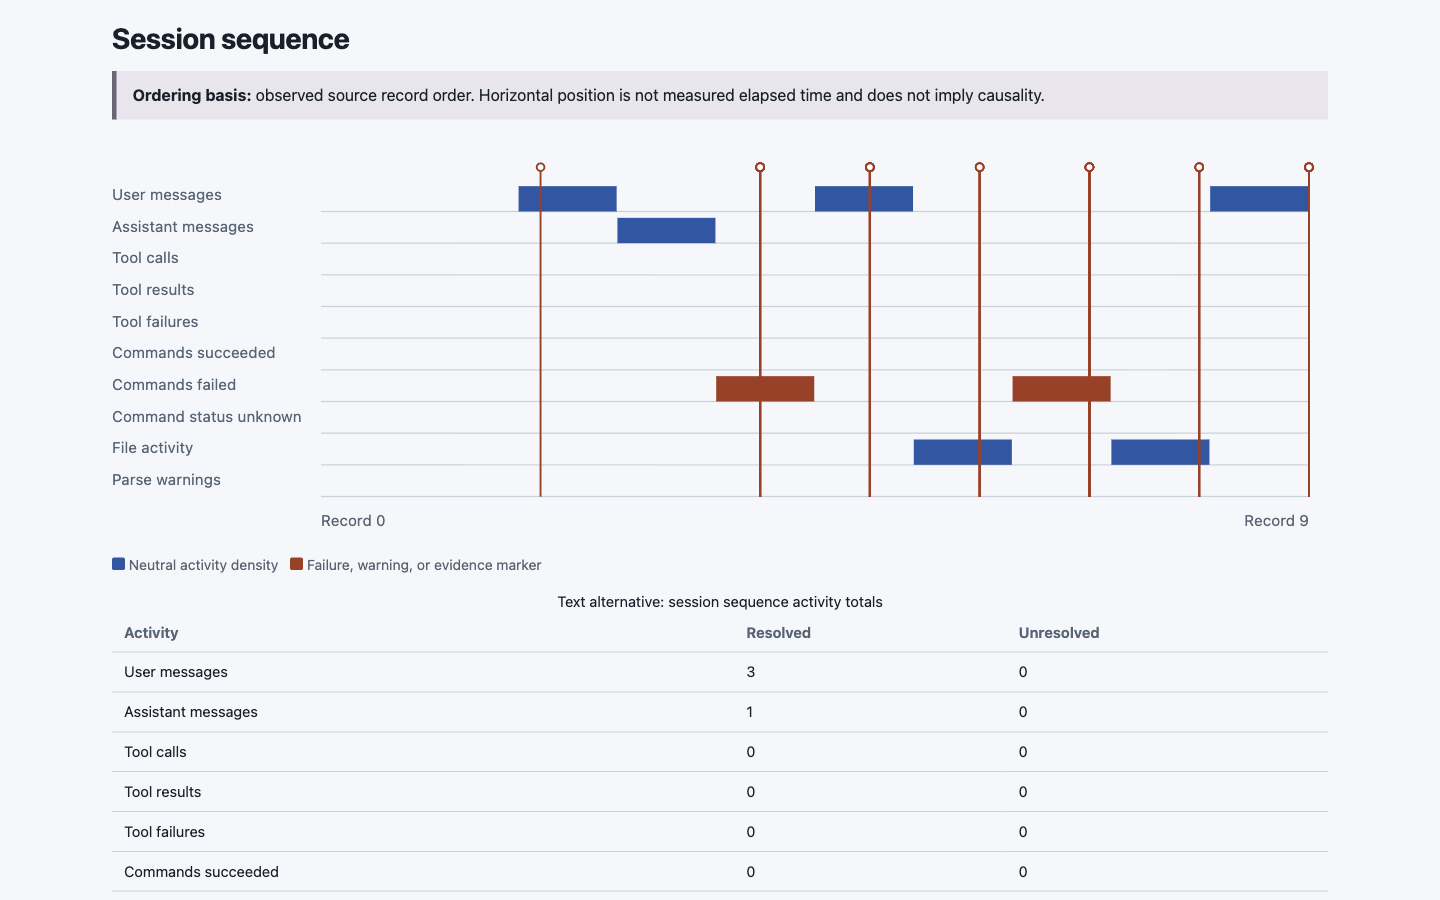
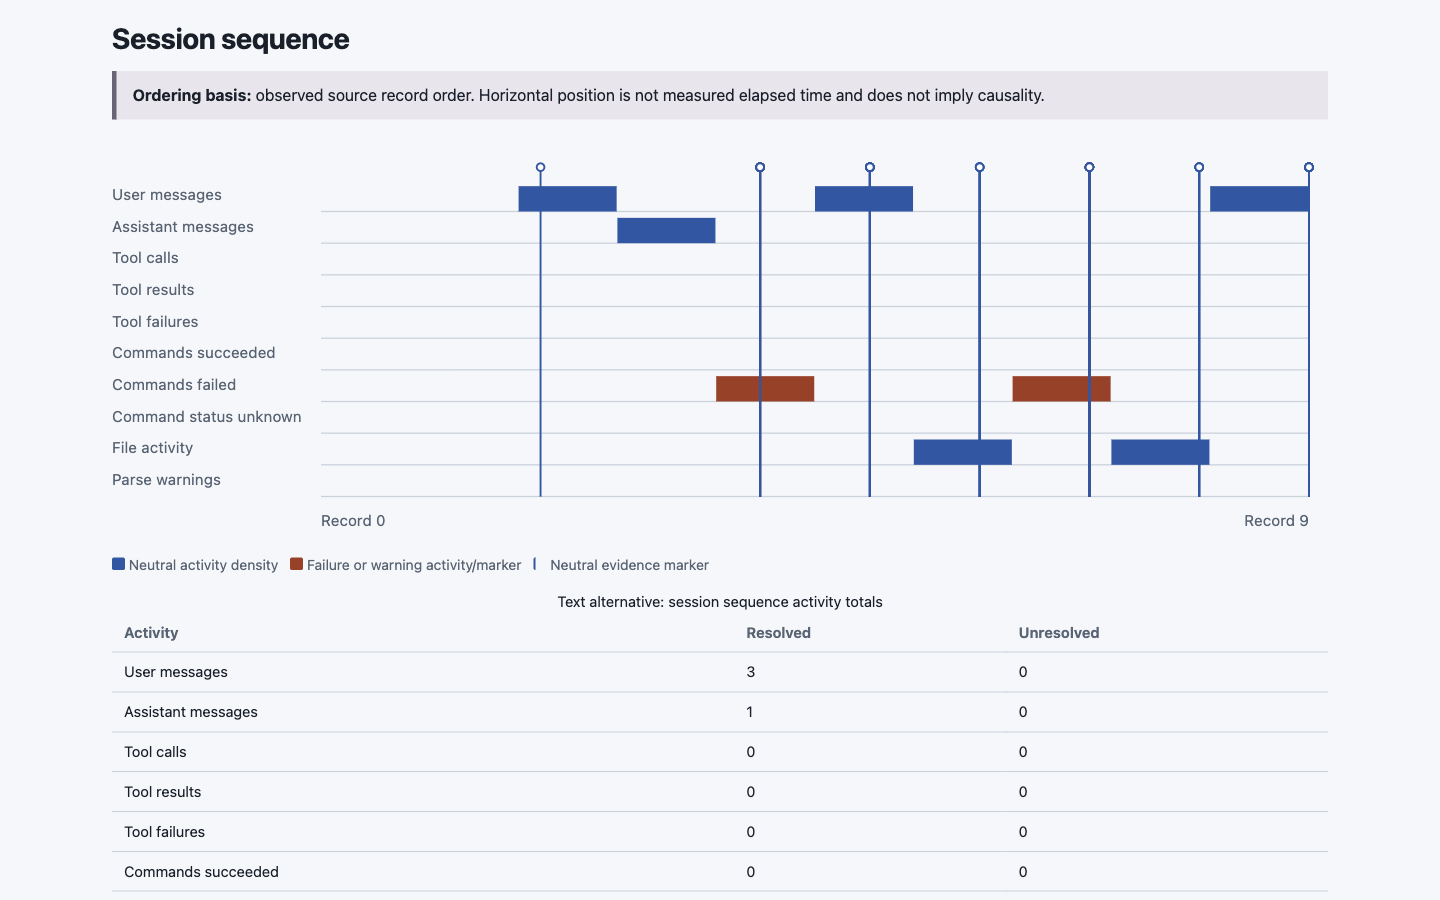
fix(report): preserve neutral and exact evidence semantics
Distinguish neutral sequence markers, expose exact ending references, harden long-text wrapping, and extend functional adapter/partial-state validation.

Changed region(s): [[0.25, 0.6222, 0.5, 0.6533]]

diff --git a/tests/test_report_html.py b/tests/test_report_html.py
@@ -15,6 +15,7 @@ from session_doctor.schemas import AgentName, AnalysisRun, SessionFeature, Sessi
 from session_doctor.store import TABLE_NAMES, DuckDBStore
 
 runner = CliRunner()
+FIXTURE_ROOT = Path(__file__).parent / "fixtures"
 
 
 class StructureParser(HTMLParser):
@@ -68,11 +69,16 @@ def test_report_html_is_deterministic_semantic_offline_and_private(tmp_path) -> 
     evidence_sections_with_rows = sum(bool(section.items) for section in report.evidence.values())
     assert parser.details >= evidence_sections_with_rows
     assert "Text alternative: session sequence activity totals" in first
+    assert 'class="marker marker-neutral"' in first
+    assert 'class="marker marker-risk"' in first
+    assert "Exact ending evidence references" in first
+    assert report.ending.late_failed_command_ids[0] in first
     assert "Content-Security-Policy" in first
     assert "default-src &#x27;none&#x27;" in first
     assert "prefers-color-scheme: dark" in first
     assert "prefers-reduced-motion: reduce" in first
     assert "@media print" in first
+    assert "overflow-wrap: anywhere" in first
     assert "https://" not in first
     assert "http://" not in first
     assert "fetch(" not in first
@@ -345,6 +351,57 @@ def test_report_cli_rejects_symlink_and_unwritable_parent(tmp_path, monkeypatch)
     assert target.read_text() == "target"
     assert unwritable_result.exit_code == 2
     assert "parent directory is not writable" in unwritable_result.stdout
+
+
+def test_native_three_adapter_and_sidechain_html_smoke(tmp_path) -> None:
+    database_path = tmp_path / "native.duckdb"
+    for agent in ("codex", "claude", "pi"):
+        ingest = runner.invoke(
+            app,
+            [
+                "ingest",
+                "--agent",
+                agent,
+                "--source",
+                str(FIXTURE_ROOT / agent / "repeated-failure-session.jsonl"),
+                "--db",
+                str(database_path),
+            ],
+        )
+        assert ingest.exit_code == 0
+    topology = runner.invoke(
+        app,
+        [
+            "ingest",
+            "--agent",
+            "claude",
+            "--source",
+            str(FIXTURE_ROOT / "claude" / "topology"),
+            "--db",
+            str(database_path),
+        ],
+    )
+    assert topology.exit_code == 0
+    analysis = runner.invoke(app, ["analyze", "--all", "--db", str(database_path)])
+    assert analysis.exit_code == 0
+    store = DuckDBStore(database_path)
+    sessions = store.list_session_summaries()
+    sidechain_found = False
+
+    for session in sessions:
+        snapshot = store.load_diagnostic_snapshot(session.session_id)
+        assert snapshot is not None
+        sidechain_found |= snapshot.normalized.session.is_sidechain
+        output = tmp_path / f"{session.session_id}.html"
+        result = invoke_html(store, session.session_id, output)
+        assert result.exit_code == 0
+        html = output.read_text(encoding="utf-8")
+        assert html.startswith("<!doctype html>")
+        assert session.session_id in html
+        assert "Source record position does not imply" in html
+
+    assert {session.agent_name for session in sessions} == {"codex", "claude", "pi"}
+    assert sidechain_found
 
 
 def invoke_html(store: DuckDBStore, session_id: str, output: Path):

diff --git a/src/session_doctor/html/report.py b/src/session_doctor/html/report.py
@@ -455,14 +455,39 @@ def ending_recurrence_actions(report: SessionReport) -> str:
             ("Limitations", report.limitations),
         )
     )
+    ending_references = ending_reference_disclosure(ending)
     return (
         '<section class="section" aria-labelledby="ending-recurrence-actions">'
         '<h2 id="ending-recurrence-actions">Ending, recurrence, and actions</h2>'
         '<div class="grid">'
-        f"{card(ending_details, heading='Ending evidence')}"
+        f"{card(ending_details + ending_references, heading='Ending evidence')}"
         f"{card(project_context_summary(report), heading='Historical project context')}"
         "</div>"
         f"{recurrence_sections(report)}{recurrence_exclusions(report)}{statements}</section>"
+    )
+
+
+def ending_reference_disclosure(ending: ReportEnding) -> str:
+    groups = (
+        ("Resolved source events", ending.source_event_ids),
+        ("Unresolved source events", ending.unresolved_source_event_ids),
+        ("Late failed commands", ending.late_failed_command_ids),
+        ("Late parse warnings", ending.late_parse_warning_ids),
+    )
+    rows = [
+        [text(label), ", ".join(code(item) for item in identifiers)]
+        for label, identifiers in groups
+        if identifiers
+    ]
+    if not rows:
+        return '<p class="muted">No exact ending evidence references are available.</p>'
+    return disclosure(
+        "Exact ending evidence references",
+        table(
+            ["Reference category", "Persisted IDs"],
+            rows,
+            caption="Exact ending evidence and unresolved references",
+        ),
     )
 
 

diff --git a/src/session_doctor/html/charts.py b/src/session_doctor/html/charts.py
@@ -16,6 +16,14 @@ LANES = (
     ("file_activity", "File activity", False),
     ("parse_warning", "Parse warnings", True),
 )
+RISK_MARKER_CATEGORIES = {
+    "command_failures",
+    "tool_failures",
+    "repeated_failures",
+    "repeated_file_edits",
+    "frustration_markers",
+    "stop_or_pause_markers",
+}
 
 
 def sequence_chart(sequence: SessionSequence) -> str:
@@ -75,15 +83,21 @@ def sequence_chart(sequence: SessionSequence) -> str:
     span = max(last - first, 1)
     for marker in sequence.evidence_markers:
         x = label_width + ((marker.record_index - first) / span) * plot_width
+        marker_class = (
+            "marker marker-risk"
+            if marker.category in RISK_MARKER_CATEGORIES
+            else "marker marker-neutral"
+        )
         elements.append(
-            f'<line class="marker" aria-hidden="true" x1="{x:.2f}" y1="{top - 7}" '
+            f'<line class="{marker_class}" aria-hidden="true" x1="{x:.2f}" '
+            f'y1="{top - 7}" '
             f'x2="{x:.2f}" '
             f'y2="{top + len(LANES) * lane_height}">'
             f"<title>{text(marker.category)} evidence {text(marker.evidence_id)} at "
             f"record {marker.record_index}</title></line>"
         )
         elements.append(
-            f'<circle class="marker" aria-hidden="true" cx="{x:.2f}" '
+            f'<circle class="{marker_class}" aria-hidden="true" cx="{x:.2f}" '
             f'cy="{top - 10}" r="3">'
             f"<title>{text(marker.category)} evidence marker</title></circle>"
         )
@@ -98,7 +112,8 @@ def sequence_chart(sequence: SessionSequence) -> str:
     legend = (
         '<ul class="legend" aria-label="Sequence legend">'
         '<li><span class="legend-key"></span>Neutral activity density</li>'
-        '<li><span class="legend-key risk"></span>Failure, warning, or evidence marker</li>'
+        '<li><span class="legend-key risk"></span>Failure or warning activity/marker</li>'
+        '<li><span class="legend-key evidence"></span>Neutral evidence marker</li>'
         "</ul>"
     )
     return (

diff --git a/src/session_doctor/html/assets.py b/src/session_doctor/html/assets.py
@@ -66,7 +66,7 @@ h3 { margin-top: 0; font-size: 1.1rem; }
 .lede, .muted { color: var(--muted); }
 .section { margin-block: var(--space-6); scroll-margin-top: var(--space-4); }
 .grid { display: grid; grid-template-columns: repeat(auto-fit, minmax(min(100%, 17rem), 1fr)); gap: var(--space-4); }
-.card { min-width: 0; padding: var(--space-4); border: 1px solid var(--border); border-radius: var(--radius); background: var(--surface); box-shadow: var(--shadow); }
+.card { min-width: 0; padding: var(--space-4); border: 1px solid var(--border); border-radius: var(--radius); background: var(--surface); box-shadow: var(--shadow); overflow-wrap: anywhere; }
 .card > :last-child { margin-bottom: 0; }
 .status-row { display: flex; flex-wrap: wrap; align-items: center; gap: var(--space-2); }
 .badge { display: inline-flex; align-items: center; border: 1px solid currentColor; border-radius: 999px; padding: .12rem .55rem; font-size: .8rem; font-weight: 700; letter-spacing: .02em; }
@@ -91,10 +91,13 @@ progress::-moz-progress-bar { background: var(--accent); }
 .sequence-chart .lane-label { fill: var(--muted); font-size: 12px; }
 .sequence-chart .activity { fill: var(--accent); }
 .sequence-chart .activity-risk { fill: var(--risk); }
-.sequence-chart .marker { stroke: var(--risk); stroke-width: 1.5; fill: var(--surface); }
+.sequence-chart .marker { stroke-width: 1.5; fill: var(--surface); }
+.sequence-chart .marker-neutral { stroke: var(--accent); }
+.sequence-chart .marker-risk { stroke: var(--risk); }
 .legend { display: flex; flex-wrap: wrap; gap: var(--space-3); padding: 0; list-style: none; color: var(--muted); font-size: .88rem; }
 .legend-key { display: inline-block; width: .8rem; height: .8rem; margin-right: var(--space-1); background: var(--accent); border-radius: 2px; }
 .legend-key.risk { background: var(--risk); }
+.legend-key.evidence { background: transparent; border-left: 2px solid var(--accent); }
 .table-wrap { overflow-x: auto; }
 table { width: 100%; border-collapse: collapse; font-size: .92rem; }
 th, td { padding: var(--space-2) var(--space-3); border-bottom: 1px solid var(--border); text-align: left; vertical-align: top; overflow-wrap: anywhere; }
@@ -102,7 +105,7 @@ th { color: var(--muted); font-weight: 650; }
 code { font-family: ui-monospace, SFMono-Regular, Consolas, monospace; font-size: .9em; overflow-wrap: anywhere; }
 details { border: 1px solid var(--border); border-radius: var(--radius); background: var(--surface); margin-block: var(--space-3); }
 summary { cursor: pointer; padding: var(--space-3) var(--space-4); font-weight: 700; }
-details > .details-body { padding: 0 var(--space-4) var(--space-4); }
+details > .details-body { padding: 0 var(--space-4) var(--space-4); overflow-wrap: anywhere; }
 .empty { padding: var(--space-4); border: 1px dashed var(--border); border-radius: var(--radius); color: var(--muted); background: var(--surface-alt); }
 .notice { border-left: .3rem solid var(--unavailable); padding: var(--space-3) var(--space-4); background: var(--unavailable-soft); }
 .notice.risk { border-color: var(--risk); background: var(--risk-soft); }

diff --git a/docs/phase-11-report-screenshots/README.md b/docs/phase-11-report-screenshots/README.md
@@ -14,6 +14,8 @@ Reviewed surfaces:
 | desktop, light | `current-desktop-light.png` | no page overflow; header and overview remain legible |
 | mobile, dark | `current-mobile-dark.png` | no page overflow; metadata stacks without hiding values |
 | sequence, light | `current-sequence-light.png` | density lanes, record-order label, marker positions, legend, and text fallback remain visible |
+| missing analysis, desktop light | `missing-analysis-desktop-light.png` | unavailable analysis, recovery action, and neutral partial state remain explicit |
+| bounded text disclosure, desktop dark | `show-text-evidence-desktop-dark.png` | privacy badge and one synthetic displayed evidence message are explicit; IDs and long values wrap |
 | print emulation | structural browser check | controls hidden, closed disclosure bodies expanded, chart minimum width removed |
 | JavaScript disabled | structural browser check | all five main sections and native disclosures remain present; enhancement controls stay hidden |
 | JavaScript enabled | interaction browser check | expand-all and collapse-all controls update native disclosures |
@@ -28,3 +30,10 @@ Review findings fixed before retention:
 - added an exact textual fallback for sequence evidence-marker positions and
   removed chart descendants from the accessibility tree;
 - made print disclosure expansion explicit.
+
+The automated browser/renderer suite additionally generates standalone reports
+for Codex, Claude, and Pi top-level fixtures plus Claude sidechains. The broader
+healthy/dense/three-adapter theme and print-preview screenshot matrix remains a
+final Phase 11 validation responsibility in PR 4; this PR retains the materially
+different report, sequence, missing-analysis, mobile, and explicit-text states
+used to review the report implementation itself.